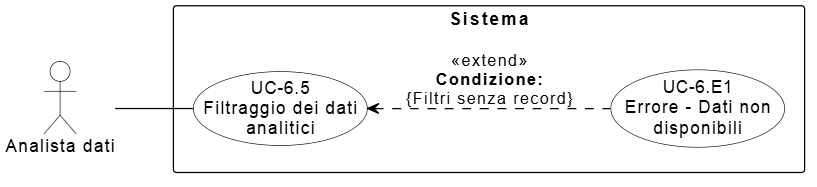
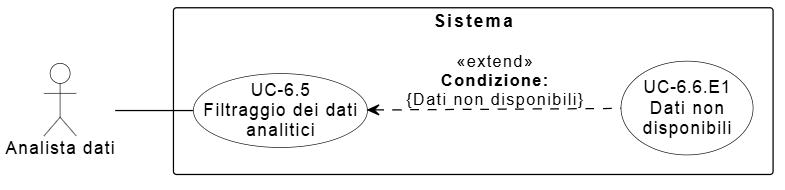
modifiche

diff --git a/RTB/Analisi dei Requisiti/Analisi dei Requisiti.tex b/RTB/Analisi dei Requisiti/Analisi dei Requisiti.tex
@@ -269,8 +269,8 @@ Gli attori rappresentano i ruoli assunti dagli utenti umani o dai sistemi estern
     
     \item[Trigger] Il Redattore seleziona la funzione di creazione di un nuovo contenuto supportato dall'AI.
     
-    \item[Pre-condizioni]Il sistema ha inizializzato e reso operativo il modulo "AI Assistant Generativo".
-    
+    \item[Pre-condizioni]Il sistema ha inizializzato e reso operativo il modulo "AI Assistant Generativo", preimpostando i parametri di tono, stile e lunghezza sui valori di default.
+
     \item[Post-condizioni] Il sistema mostra l'anteprima del contenuto generato (comprendente titolo, testo e immagine di copertina) e abilita le funzionalità di revisione.
     
     \item[Scenario Principale] 
@@ -327,7 +327,7 @@ Gli attori rappresentano i ruoli assunti dagli utenti umani o dai sistemi estern
 \end{figure}
 \begin{description}[style=multiline, leftmargin=4cm, font=\bfseries]
     \item[Attore Principale] Redattore
-    \item[Pre-condizioni] Il sistema espone l'elenco dei toni utilizzabili.
+    \item[Pre-condizioni] Il sistema espone l'elenco dei toni utilizzabili, impostato sul valore di default.
     \item[Post-condizioni] Il parametro relativo al tono di voce è stato impostato.
     \item[Scenario Principale] 
     \begin{enumerate}[leftmargin=*, nosep]
@@ -345,7 +345,7 @@ Gli attori rappresentano i ruoli assunti dagli utenti umani o dai sistemi estern
 \end{figure}
 \begin{description}[style=multiline, leftmargin=4cm, font=\bfseries]
     \item[Attore Principale] Redattore
-    \item[Pre-condizioni] Il sistema espone l'elenco degli stili di scrittura supportati.
+    \item[Pre-condizioni] Il sistema espone l'elenco degli stili di scrittura supportati, impostato sul valore di default.
     \item[Post-condizioni] Il parametro relativo allo stile è stato impostato.
     \item[Scenario Principale] 
     \begin{enumerate}[leftmargin=*, nosep]
@@ -354,7 +354,7 @@ Gli attori rappresentano i ruoli assunti dagli utenti umani o dai sistemi estern
 \end{description}
 
 \paragraph{UC-1.4: Salvataggio della configurazione del prompt}
-\mbox{}
+\mbox{} \\
 \begin{figure}[H]
     \centering
     \includegraphics[width=0.9\textwidth]{diagrammi_use_case/UC-1.4.png}
@@ -364,15 +364,18 @@ Gli attori rappresentano i ruoli assunti dagli utenti umani o dai sistemi estern
 \begin{description}[style=multiline, leftmargin=4cm, font=\bfseries]
     \item[Attore Principale] Redattore
     \item[Pre-condizioni] Il Redattore ha compilato uno o più parametri nell'interfaccia di composizione.
-    \item[Post-condizioni] La configurazione attuale è memorizzata nella libreria personale dei prompt.
+    \item[Post-condizioni] La configurazione attuale è memorizzata nella libreria personale dei prompt con un nome univoco.
     \item[Scenario Principale] 
     \begin{enumerate}[leftmargin=*, nosep]
         \item Il Redattore seleziona il comando "Salva prompt".
+        \item Il sistema richiede l'inserimento di un nome identificativo per la configurazione.
+        \item Il Redattore conferma l'operazione (inserendo un nome oppure lasciando il campo vuoto).
+        \item Il sistema elabora il nome: in caso di campo vuoto o di nome già esistente in libreria, il sistema assegna un'etichetta progressiva automatica (es. "Senza nome (1)").
         \item Il sistema memorizza i dati inseriti per consentirne il riutilizzo in sessioni successive.
     \end{enumerate}
     \item[Scenari Alternativi] 
     \begin{itemize}[leftmargin=*, nosep]
-        \item \textbf{1a. Prompt mancante}: Il Redattore tenta il salvataggio con il campo prompt vuoto; viene eseguito \textbf{UC-1.E1}.
+        \item \textbf{1a. Prompt mancante}: Il Redattore tenta il salvataggio con il campo prompt principale vuoto; viene eseguito \textbf{UC-1.E1}.
     \end{itemize}
 
     \item[Relazioni] 
@@ -410,7 +413,7 @@ Gli attori rappresentano i ruoli assunti dagli utenti umani o dai sistemi estern
 \end{figure}
 \begin{description}[style=multiline, leftmargin=4.5cm, font=\bfseries]
     \item[Attore Principale] Redattore
-    \item[Pre-condizioni] Il sistema espone le opzioni di configurazione dei parametri di generazione.
+    \item[Pre-condizioni] Il sistema espone le opzioni di configurazione della lunghezza, impostate sul valore di default.
     \item[Post-condizioni] Il parametro relativo alla lunghezza del testo è stato impostato.
     \item[Scenario Principale] 
     \begin{enumerate}[leftmargin=*, nosep]
@@ -793,9 +796,9 @@ Gli attori rappresentano i ruoli assunti dagli utenti umani o dai sistemi estern
     
     \item[Trigger] Il Redattore ha concluso la fase di revisione della bozza e intende approvarla e finalizzarla in un documento da archiviare, esportare o distribuire.
 
-    \item[Pre-condizioni] La bozza revisionata (UC-2) è pronta per l'approvazione e presenta il marcatore di trasparenza "Creato da AI Assistant".
+    \item[Pre-condizioni] La bozza revisionata (UC-2) è pronta per l'approvazione.
     
-    \item[Post-condizioni] Il sistema ha promosso la bozza a documento e lo ha archiviato, esportato o inoltrato con successo.
+    \item[Post-condizioni] Il sistema ha promosso la bozza a documento e lo ha archiviato, esportato o inoltrato con successo; nei casi di esportazione e inoltro il documento riporta in calce il marcatore di trasparenza ``Creato da AI Assistant''.
     
     \item[Scenario Principale] 
     \begin{enumerate}[leftmargin=*, nosep]
@@ -852,23 +855,22 @@ Gli attori rappresentano i ruoli assunti dagli utenti umani o dai sistemi estern
     \end{enumerate}
 \end{description}
 
-\paragraph{UC-3.3: Esportazione del documento}
+\paragraph{UC-3.3: Esportazione del documento in PDF}
 \mbox{} \\
-
 \begin{figure}[H]
     \centering
     \includegraphics[width=0.5\textwidth]{diagrammi_use_case/UC-3.3.png}
     \caption{Diagramma del caso d'uso UC-3.3: Esportazione del documento}
     \label{fig:uc-3.3}
 \end{figure}
-\begin{description}[style=multiline, leftmargin=4cm, font=\bfseries]
+\begin{description}[style=multiline, leftmargin=4.5cm, font=\bfseries]
     \item[Attore Principale] Redattore
     \item[Pre-condizioni] Il sistema mostra i comandi di finalizzazione.
-    \item[Post-condizioni] Il sistema ha generato un file scaricabile del documento, comprensivo del marcatore di trasparenza.
+    \item[Post-condizioni] Il sistema ha generato un file PDF scaricabile comprensivo del marcatore di trasparenza ``Creato da AI Assistant''.
     \item[Scenario Principale] 
     \begin{enumerate}[leftmargin=*, nosep]
-        \item Il Redattore seleziona il comando di esportazione e indica il formato desiderato.
-        \item Il sistema avvia il download del documento sul dispositivo dell'utente.
+        \item Il Redattore seleziona il comando di esportazione PDF.
+        \item Il sistema avvia il download del documento sul dispositivo dell'utente nel formato PDF.
     \end{enumerate}
 \end{description}
 
@@ -884,11 +886,11 @@ Gli attori rappresentano i ruoli assunti dagli utenti umani o dai sistemi estern
 \begin{description}[style=multiline, leftmargin=4cm, font=\bfseries]
     \item[Attore Principale] Redattore
     \item[Pre-condizioni] Il sistema espone il campo per l'inserimento dell'indirizzo del destinatario.
-    \item[Post-condizioni] Il documento è stato trasmesso con successo all'indirizzo specificato.
+    \item[Post-condizioni] Il documento è stato trasmesso con successo all'indirizzo specificato, con il marcatore di trasparenza ``Creato da AI Assistant''.
     \item[Scenario Principale] 
     \begin{enumerate}[leftmargin=*, nosep]
         \item Il Redattore seleziona l'opzione di invio e inserisce l'indirizzo e-mail di destinazione.
-        \item Il sistema trasmette il messaggio includendo il marcatore automatico di trasparenza.
+        \item Il sistema trasmette il messaggio includendo il marcatore di trasparenza.
         \item Il sistema notifica il successo dell'operazione.
     \end{enumerate}
     \item[Scenari Alternativi] 
@@ -913,11 +915,11 @@ Gli attori rappresentano i ruoli assunti dagli utenti umani o dai sistemi estern
 \begin{description}[style=multiline, leftmargin=4.5cm, font=\bfseries]
     \item[Attore Principale] Redattore
     \item[Pre-condizioni] Il sistema mostra i comandi di finalizzazione e il Redattore intende esportare il documento.
-    \item[Post-condizioni] Il Redattore ha visualizzato a schermo l'aspetto del documento finale.
+    \item[Post-condizioni] Il Redattore ha visualizzato a schermo l'aspetto del documento finale, comprensivo del marcatore di trasparenza ``Creato da AI Assistant''.
     \item[Scenario Principale] 
     \begin{enumerate}[leftmargin=*, nosep]
         \item Il Redattore seleziona il comando di anteprima di stampa/esportazione.
-        \item Il sistema genera e mostra a schermo una preview del documento impaginato, rendendo visibile il marcatore di trasparenza ("Creato da AI Assistant").
+        \item Il sistema genera e mostra a schermo una preview del documento impaginato, rendendo visibile il marcatore di trasparenza.
     \end{enumerate}
 \end{description}
 
@@ -1105,28 +1107,28 @@ Gli attori rappresentano i ruoli assunti dagli utenti umani o dai sistemi estern
 \end{description}
 
 \subsubsection{UC-5: Sistema di valutazione e feedback}
-
+\mbox{} \\
 \begin{figure}[H]
     \centering
     \includegraphics[width=1.1\textwidth]{diagrammi_use_case/UC-5.png}
     \caption{Diagramma del caso d'uso UC-5: Sistema di valutazione e feedback}
     \label{fig:uc-5}
 \end{figure}
-\begin{description}[style=multiline, leftmargin=4cm, font=\bfseries]
+\begin{description}[style=multiline, leftmargin=4.5cm, font=\bfseries]
     
     \item[Attore Principale] Redattore
     
-\item[Trigger] Il Redattore intende fornire un riscontro qualitativo sulla bozza generata dall'intelligenza artificiale.
+    \item[Trigger] Il Redattore intende fornire un riscontro qualitativo sulla bozza generata.
 
-    \item[Pre-condizioni] Il sistema ha completato la generazione dell'output (UC-1) e abilita le funzionalità di raccolta feedback.
+    \item[Pre-condizioni] Il sistema ha completato la generazione dell'output (UC-1) e abilita le funzionalità di raccolta feedback. La fornitura del feedback è un'azione completamente opzionale (UC-3).
     
-    \item[Post-condizioni] Il feedback (punteggio ed eventuale commento) è archiviato nel sistema.
+    \item[Post-condizioni] Il feedback (punteggio ed eventuale commento) è archiviato nel sistema in associazione alla bozza valutata.
     
     \item[Scenario Principale] 
     \begin{enumerate}[leftmargin=*, nosep]
         \item Il Redattore visualizza il modulo di valutazione a schermo (\textbf{UC-5.1}).
         \item Il Redattore assegna un punteggio di gradimento tramite il selettore grafico (\textbf{UC-5.2}).
-        \item Il Redattore inserisce una nota testuale opzionale per dettagliare il feedback (\textbf{UC-5.3}).
+        \item Il Redattore inserisce una nota testuale per dettagliare il feedback (\textbf{UC-5.3}).
         \item Il Redattore conferma l'invio della valutazione (\textbf{UC-5.4}).
     \end{enumerate}
 
@@ -1206,22 +1208,21 @@ Gli attori rappresentano i ruoli assunti dagli utenti umani o dai sistemi estern
 
 \paragraph{UC-5.4: Invio della valutazione}
 \mbox{} \\
-
 \begin{figure}[H]
     \centering
     \includegraphics[width=0.9\textwidth]{diagrammi_use_case/UC-5.4.png}
     \caption{Diagramma del caso d'uso UC-5.4: Invio della valutazione}
     \label{fig:uc-5.4}
 \end{figure}
-\begin{description}[style=multiline, leftmargin=4cm, font=\bfseries]
+\begin{description}[style=multiline, leftmargin=4.5cm, font=\bfseries]
     \item[Attore Principale] Redattore
-    \item[Pre-condizioni] Il Redattore ha compilato i dati obbligatori del modulo (rating).
-    \item[Post-condizioni] La valutazione è stata acquisita dal sistema e il modulo è disabilitato.
+    \item[Pre-condizioni] Il Redattore ha compilato il dato obbligatorio del modulo (rating).
+    \item[Post-condizioni] La valutazione è stata acquisita dal sistema e il modulo è disabilitato per la bozza corrente.
     \item[Scenario Principale] 
     \begin{enumerate}[leftmargin=*, nosep]
         \item Il Redattore seleziona il comando di invio del feedback.
         \item Il sistema conferma l'acquisizione dei dati visualizzando un messaggio di ringraziamento.
-        \item Il sistema disabilita ulteriori modifiche al modulo di valutazione corrente.
+        \item Il sistema disabilita permanentemente il modulo di feedback per la generazione corrente, al fine di prevenire votazioni multiple.
     \end{enumerate}
     \item[Scenari Alternativi] 
     \begin{itemize}[leftmargin=*, nosep]
@@ -1388,20 +1389,19 @@ Gli attori rappresentano i ruoli assunti dagli utenti umani o dai sistemi estern
 
 \paragraph{UC-6.5: Filtraggio dei dati analitici}
 \mbox{} \\
-
 \begin{figure}[H]
     \centering
     \includegraphics[width=0.9\textwidth]{diagrammi_use_case/UC-6.5.png}
     \caption{Diagramma del caso d'uso UC-6.5: Filtraggio dei dati analitici}
     \label{fig:uc-6.5}
 \end{figure}
-\begin{description}[style=multiline, leftmargin=4cm, font=\bfseries]
+\begin{description}[style=multiline, leftmargin=4.5cm, font=\bfseries]
     \item[Attore Principale] Analista dati
     \item[Pre-condizioni] L'Analista dati visualizza i dati all'interno della dashboard.
     \item[Post-condizioni] Il sistema aggiorna la visualizzazione in base ai parametri selezionati.
     \item[Scenario Principale] 
     \begin{enumerate}[leftmargin=*, nosep]
-        \item L'Analista dati imposta parametri specifici.
+        \item L'Analista dati imposta parametri specifici di filtro (es. intervallo di date, tono, stile).
         \item Il sistema aggiorna istantaneamente la visualizzazione in base ai criteri scelti.
     \end{enumerate}
     \item[Scenari Alternativi] 